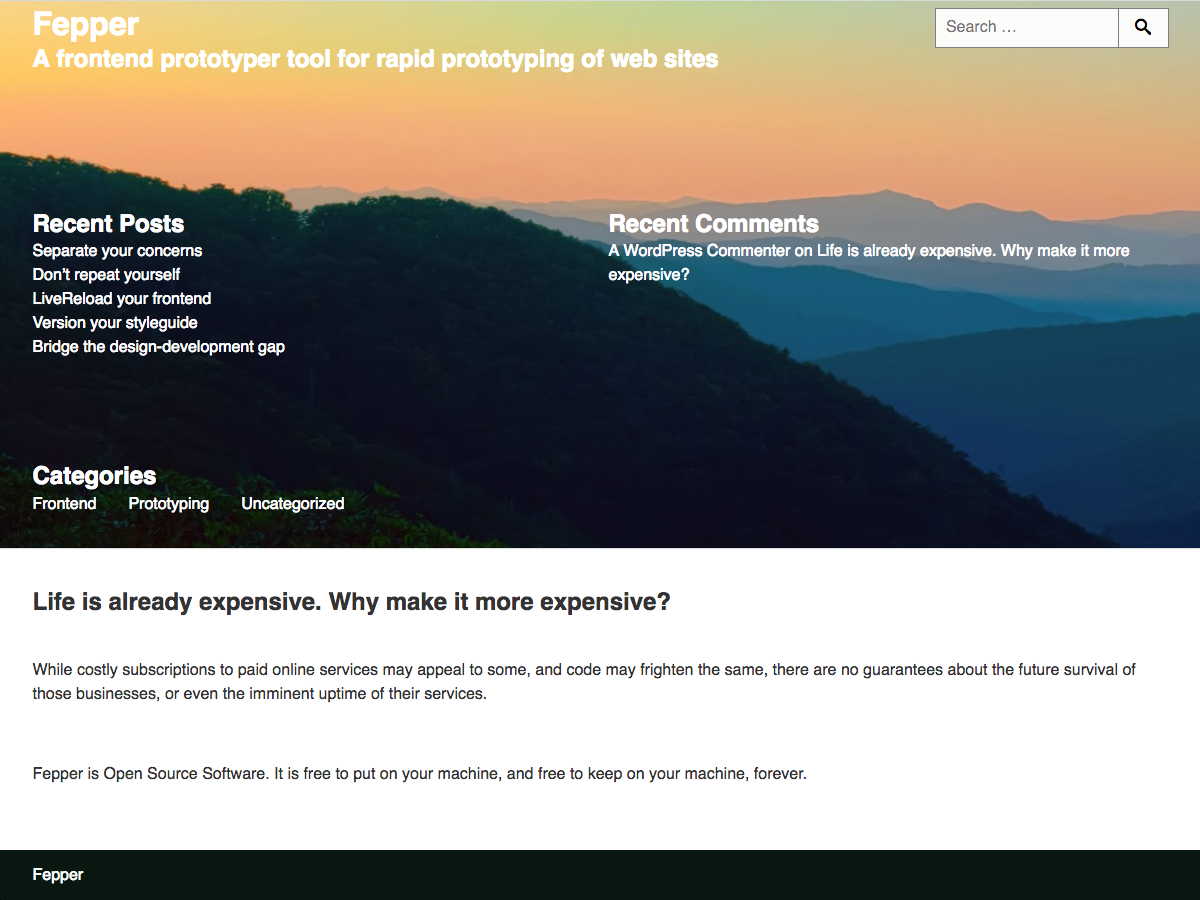
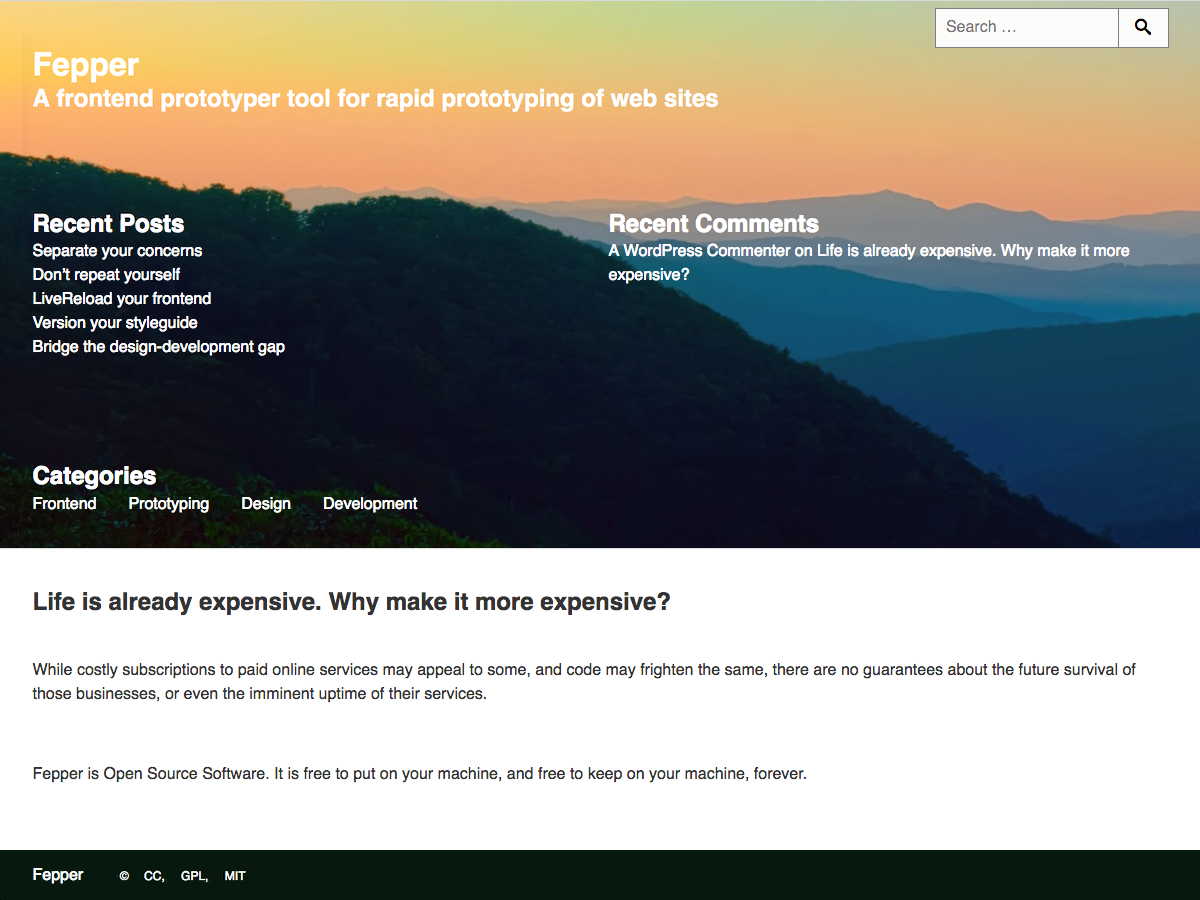
more working parts

Changed region(s): [[0.0308, 0.0, 0.6167, 0.1244], [0.2158, 0.5289, 0.3392, 0.5911], [0.0925, 0.9644, 0.2158, 0.9956]]

diff --git a/_styles/bld/style.css b/_styles/bld/style.css
@@ -176,8 +176,9 @@ figure {
 	margin-right: 0.8rem;
 }
 .cf:before,
-#widget-area aside:not(.widget_search):before,
 article[id^="post-"]:before,
+.block-hoagie:before,
+#widget-area aside:not(.widget_search):before,
 .comments .comment-body:before,
 .l-two-col:before,
 [role="main"]:before,
@@ -186,8 +187,9 @@ article[id^="post-"]:before,
 .footer .page_item_has_children:before,
 .footer .menu-item-has-children:before,
 .cf:after,
-#widget-area aside:not(.widget_search):after,
 article[id^="post-"]:after,
+.block-hoagie:after,
+#widget-area aside:not(.widget_search):after,
 .comments .comment-body:after,
 .l-two-col:after,
 [role="main"]:after,
@@ -201,8 +203,9 @@ article[id^="post-"]:after,
 /* 2 */
 }
 .cf:after,
-#widget-area aside:not(.widget_search):after,
 article[id^="post-"]:after,
+.block-hoagie:after,
+#widget-area aside:not(.widget_search):after,
 .comments .comment-body:after,
 .l-two-col:after,
 [role="main"]:after,
@@ -531,14 +534,10 @@ object {
 }
 article[id^="post-"],
 .block-hoagie {
-	display: table;
 	width: 100%;
-	border-collapse: collapse;
 }
 article[id^="post-"] .b-inner,
 .block-hoagie .b-inner {
-	display: table-row;
-	vertical-align: top;
 	overflow: hidden;
 }
 article[id^="post-"] .b-thumb,
@@ -896,11 +895,11 @@ input[type="submit"].search-submit:hover {
 	}
 }
 .nav {
+	background: rgba(255,255,255,0.95);
 	clear: both;
-	margin-top: -0.1rem;
 	overflow: hidden;
 }
-.nav ul {
+.nav li {
 	background: rgba(255,255,255,0.95);
 }
 .header .nav a {
@@ -944,12 +943,12 @@ input[type="submit"].search-submit:hover {
 		border: 0;
 		padding: 0.4rem 1.6rem;
 	}
-	.nav > ul > li > .children,
-	.nav > ul > li > .sub-menu {
+	.nav > li > .children,
+	.nav > li > .sub-menu {
 		position: absolute;
 	}
-	.nav > ul > .page_item_has_children .page_item_has_children li,
-	.nav > ul > .menu-item-has-children .menu-item-has-children li {
+	.nav > .page_item_has_children .page_item_has_children li,
+	.nav > .menu-item-has-children .menu-item-has-children li {
 		padding-left: 0.8rem;
 	}
 	.nav .page_item_has_children > a::after,
@@ -1083,7 +1082,7 @@ input[type="submit"].search-submit:hover {
 }
 .site-branding {
 	float: left;
-	margin-top: 0.65rem;
+	padding-top: 0.65rem;
 }
 .site-branding h1,
 .site-branding h2 {
@@ -1091,6 +1090,14 @@ input[type="submit"].search-submit:hover {
 }
 .site-branding a {
 	display: block;
+}
+@media all and (min-width: 1025px) {
+	.site-title a {
+		margin-top: 4rem;
+	}
+	.site-title .custom-logo-link {
+		margin-top: 0;
+	}
 }
 .toggle-open {
 	max-height: 100% !important;

diff --git a/template-parts/fp-home.php b/template-parts/fp-home.php
@@ -2,7 +2,7 @@
 	<div role="main">
 		<h1 class="section-title"><?php
 			$page_for_posts_id = get_option( 'page_for_posts' );
-			echo get_post_field( 'post_content', $page_for_posts_id );
+			echo get_post_field( 'post_title', $page_for_posts_id );
 		?></h1>
 		<?php if ( ! is_active_sidebar( 'sidebar-1' ) ) : ?>
 			<div class="l-one-col">
@@ -13,7 +13,7 @@
 			<div class="l-main">
 				<section class="section hoagies <?php
 					$is_two_col = false;
-					while ( have_posts() ) :
+					while ( have_posts() ) : the_post();
 						if ( has_post_thumbnail() ) :
 							$is_two_col = true;
 							break;

diff --git a/template-parts/fp-footer.php b/template-parts/fp-footer.php
@@ -3,13 +3,10 @@
 	<div class="footer-content">
 		<div class="site-title"><?php bloginfo( 'name' ); ?></div>
 		<?php
-			if ( has_nav_menu( 'primary' ) ) :
+			if ( has_nav_menu( 'footer' ) ) :
 				wp_nav_menu( array( 'menu_class' => 'menu-footer', 'theme_location' => 'footer' ) );
 			endif;
-		?>
-		<?php
-			$theme_location = 'social';
-			if ( isset( $locations[ $theme_location ] ) ) :
+			if ( has_nav_menu( 'social' ) ) :
 				wp_nav_menu( array( 'menu_class' => 'menu-social', 'theme_location' => 'social' ) );
 			endif;
 		?>

diff --git a/template-parts/fp-header.php b/template-parts/fp-header.php
@@ -1,7 +1,7 @@
 <!-- Begin .header -->
 <style type="text/css">
 	<?php
-		$text_color = get_theme_support( 'custom-header', 'default-text-color' );
+		$text_color = get_theme_mod( 'header_textcolor', get_theme_support( 'custom-header', 'default-text-color' ) );
 		if ( $text_color ) :
 	?>
 		.header,

diff --git a/template-parts/fp-single.php b/template-parts/fp-single.php
@@ -60,7 +60,7 @@
 			<?php if ( is_active_sidebar( 'sidebar-1' ) ) : ?>
 				<div class="l-sidebar l-sidebar-1">
 					<?php dynamic_sidebar( 'sidebar-1' ); ?>
-					</div><!--end l-sidebar-->
+				</div><!--end l-sidebar-->
 			<?php endif; ?>
 		</div>
 	</div><!--End role=main-->

diff --git a/template-parts/fp-front-page.php b/template-parts/fp-front-page.php
@@ -1,7 +1,7 @@
 <main id="main" role="main" class="site-main <?php
 	global $wp_query;
 	$is_two_col = false;
-	while ( have_posts() ) :
+	while ( have_posts() ) : the_post();
 		if ( has_post_thumbnail() ) :
 			$is_two_col = true;
 			break;

diff --git a/readme.md b/readme.md
@@ -56,24 +56,6 @@ License URI: http://www.gnu.org/licenses/gpl.html
 License URI: https://creativecommons.org/licenses/by/4.0/
 Source: https://icomoon.io
 
-### Composite screenshot image
-Copyright: Alex Grichenko
-License: CC0 1.0 Universal (CC0 1.0)
-License URI: https://creativecommons.org/publicdomain/zero/1.0/
-Source: http://www.publicdomainpictures.net/view-image.php?image=50301&picture=sunrise-in-mountains
-Copyright: Shaun Pierre
-License: CC0 1.0 Universal (CC0 1.0)
-License URI: https://creativecommons.org/publicdomain/zero/1.0/
-Source: http://www.publicdomainpictures.net/view-image.php?image=40694&picture=blue-mountains
-Copyright: Public Domain Archive
-License: CC0 1.0 Universal (CC0 1.0)
-License URI: https://creativecommons.org/publicdomain/zero/1.0/
-Source: http://publicdomainarchive.com/winter-mountain-glacier-grey-blue/
-Copyright: Alex Grichenko
-License: CC0 1.0 Universal (CC0 1.0)
-License URI: https://creativecommons.org/publicdomain/zero/1.0/
-Source: http://www.publicdomainpictures.net/view-image.php?image=55734&picture=night-sky-in-mountains
-
 ### Default header image
 Copyright: Alex Grichenko
 License: CC0 1.0 Universal (CC0 1.0)
